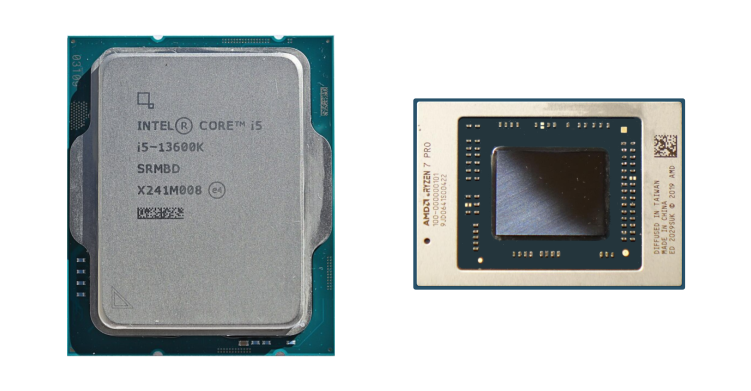
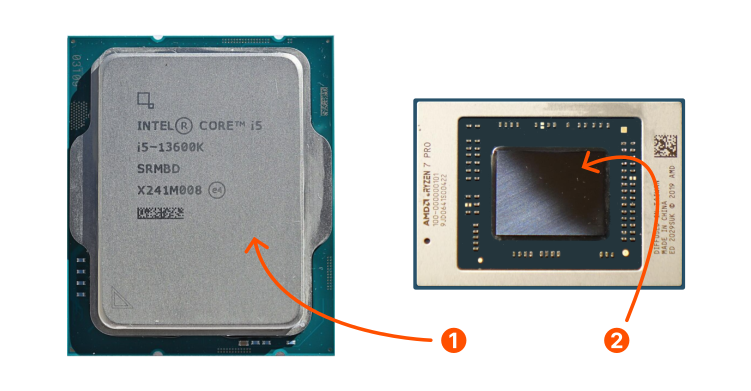
修改《电脑组成》中 CPU 配图并优化介绍

diff --git a/content/computer-and-its-components.md b/content/computer-and-its-components.md
@@ -40,11 +40,13 @@ type: docs
 
 中央处理器，简称「处理器」，英文简写「CPU」，是电脑内部最重要的一枚芯片，可以想象成是电脑的「大脑」。在上面的例子中，「老师」就相当于电脑中的处理器：「老师」的作用是对「作业」进行批改，从而完成教学任务；处理器的作用是进行各种的运算，从而实现电脑不同的功能。
 
-你一定注意到过，电脑会发热——热到需要用一个风扇给它降温，这热量中有很大一部分就是处理器发出来的。如果你有关注过时事和新闻，中美贸易战之中关键的一环，正是处理器芯片。下图中，左边是一枚台式机的 CPU，右边是一枚笔记本电脑的 CPU，这张图展示了它们之间的相对大小关系。
+你一定注意到过，电脑会发热——热到需要用一个风扇给它降温，这热量中有很大一部分就是处理器发出来的。如果你有关注过时事和新闻，中美贸易战之中关键的一环，正是处理器芯片。下图中，左边是一枚台式机的 CPU，右边是一枚笔记本电脑的 CPU。
 
 ![Two CPUs](computer-and-its-components/Two_CPUs.png#center)
 
 （左图作者 4300streetcar，来自 Wikimedia，采用 CC BY 4.0 协议授权；右图为自制）
+
+> 你可能会疑惑：这两个 CPU 为什么看起来「长」得很不一样？事实上，笔记本 CPU 为了节省空间，会直接「晶粒」（图中的 ➋）裸露在外；而台式机 CPU 为了保护晶粒，会在其外罩上一层金属罩，即图中的 ➊。
 
 处理器是电脑工作的核心芯片，因此，**处理器的性能就很大程度上决定了电脑的性能，决定了我们使用这台电脑流不流畅、玩游戏卡不卡、工作效率高不高**。在今天，全世界电脑芯片基本上是由两家美国公司设计[^1]的，其中一家叫做「英特尔」（Intel），另一家叫做「AMD」。
 
